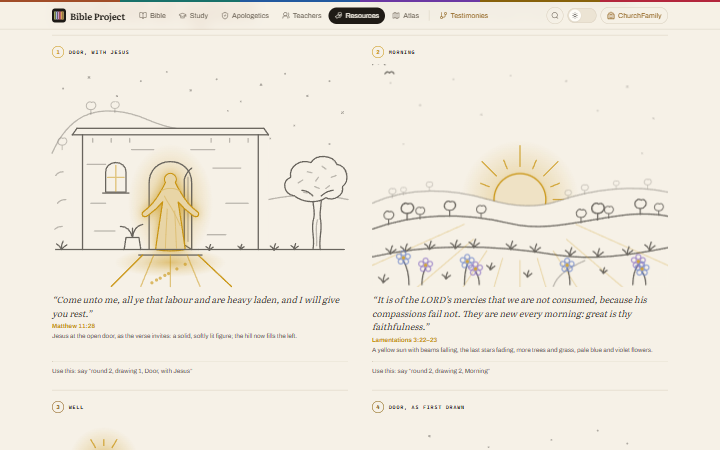
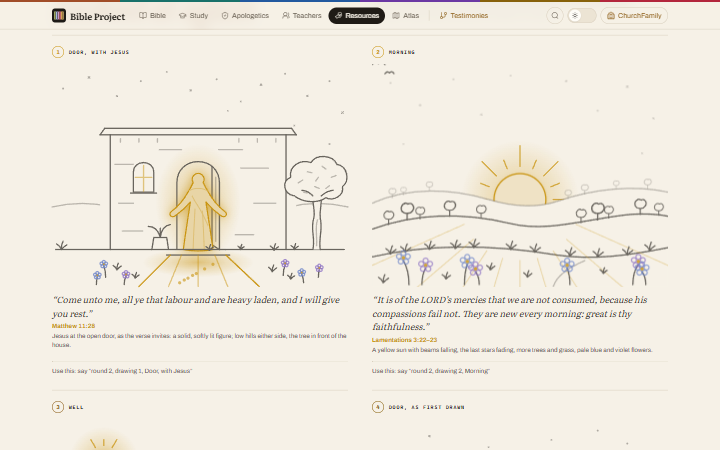
Design: round 2 Door with Jesus - house moved right behind the tree, low matching hills on both sides, grass and pale flowers in the front yard, the door's edge stops at the arch (owner)

diff --git a/design/help-for-life-drawings-2/scenes.js b/design/help-for-life-drawings-2/scenes.js
@@ -9,20 +9,18 @@
   const glow = (id, color, strength = .5) => `<radialGradient id="${id}"><stop offset="0" style="stop-color: ${color}; stop-opacity: ${strength}"/><stop offset=".5" style="stop-color: ${color}; stop-opacity: ${n(strength * .32)}"/><stop offset="1" style="stop-color: ${color}; stop-opacity: 0"/></radialGradient>`;
   // Jesus in the doorway as one solid silhouette: head, hair to the shoulders, open sleeves and hands, the robe to the step.
   const FIGURE = "M122.6 127.6C121 131 119.6 134 117.6 137C112 147 106 154 99 159C96.5 160.5 97 164.5 100.5 164.6C102 164.5 103 163.8 104 163C111 158 116 153 119.6 148.6C117 166 114 184 112 200C120 202 136 202 144 200C142 184 139 166 136.4 148.6C140 153 145 158 152 163C153 163.8 154 164.5 155.5 164.6C159 164.5 159.5 160.5 157 159C150 154 144 147 138.4 137C136.4 134 135 131 133.4 127.6A6.4 6.4 0 1 0 122.6 127.6Z";
-  const TREE = `<path d="M282 200C285 188 279 178 283 166C285 158 281 150 282 142"/><path d="M290 200C288 188 293 178 290 166C289 158 292 150 291 142"/><path class="f" d="M286 196C287 186 284 176 287 168"/>
+  const TREE = `<path class="pf" d="M282 200C285 188 279 178 283 166C285 158 281 150 282 142H291C292 150 289 158 290 166C293 178 288 188 290 200Z"/><path d="M282 200C285 188 279 178 283 166C285 158 281 150 282 142"/><path d="M290 200C288 188 293 178 290 166C289 158 292 150 291 142"/><path class="f" d="M286 196C287 186 284 176 287 168"/>
       <g class="crown"><path class="pf" d="M262 142C250 140 248 126 258 122C256 110 268 102 280 106C286 96 304 98 308 108C320 110 322 126 314 132C316 142 304 148 296 144C288 150 272 150 262 142Z"/><path d="M262 142C250 140 248 126 258 122C256 110 268 102 280 106C286 96 304 98 308 108C320 110 322 126 314 132C316 142 304 148 296 144C288 150 272 150 262 142Z"/><path class="f" d="M266 128l5-3M276 116l5 1M292 110l4 3M302 122l5-2M284 132l5 2M296 134l4-3M272 138l4 1M288 122l-3 4"/><path d="M282 142C278 138 274 136 270 136M291 142C296 138 300 136 304 136"/></g>`;
 
   window.ART = {
     // A · Come unto me (Matthew 11:28): Jesus as a solid, softly lit figure in the open doorway; the door's lines stop at
-    // his outline. The hill on the left now rises behind the house.
+    // his outline. Low hills either side; the tree stands in front of the house's right side.
     doorSolid: () => svg("Line drawing: Jesus standing as a softly lit figure in the open doorway of a small stone house at night, his arms open, the light falling across the step; a hill behind the house and a tree beside it", `
       <defs>${glow("door-glow-2", "var(--c)", .5)}</defs>
       ${stars([[12, 26], [40, 14, 1.2], [70, 34, .9], [96, 18], [124, 8, .8], [150, 28, 1.1], [178, 16], [204, 40, .8], [226, 22, 1.2], [252, 10], [276, 34, 1.1], [300, 18], [314, 52, .9], [262, 66, .8], [236, 80, .8], [300, 86, .9], [190, 50, .7]])}
-      <path class="pf" d="M0 200V96C8 78 18 64 34 56C54 46 82 50 104 60C116 65 126 68 134 69H0Z"/>
-      <path class="f" d="M0 96C8 78 18 64 34 56C54 46 82 50 104 60C116 65 126 68 134 69"/>
-      ${olive(42, 54, .75, "f")}${olive(68, 52, .65, "f")}${olive(11, 92, .7, "f")}
-      <path class="f" d="M4 120c2-3 5-4 8-4M6 150c2-3 6-4 9-4M3 178c2-2 5-3 8-3"/>
-      <path class="f" d="M234 146C262 140 292 140 320 146"/>
+      <path class="f" d="M64 154C44 149 22 149 0 154"/>
+      <path class="f" d="M256 154C276 149 298 149 320 154"/>
+      <g transform="translate(30 0)">
       <path class="pf" d="M22 69H234V200H22Z"/>
       <path d="M22 76H234"/><path d="M27 69H229"/><path d="M22 76L27 69M234 76L229 69"/>
       <path class="f" d="M44 80v4M64 80v4M84 80v4M172 80v4M192 80v4M212 80v4"/>
@@ -31,16 +29,18 @@
       <path d="M58 138V116C58 110 63 106 69 106C75 106 80 110 80 116V138Z"/><path class="ft" d="M69 109V137M60 122H78"/><path d="M55 139H83"/>
       <g class="glow-door"><ellipse cx="128" cy="150" rx="46" ry="64" fill="url(#door-glow-2)" stroke="none"/><ellipse cx="128" cy="214" rx="60" ry="16" fill="url(#door-glow-2)" stroke="none"/></g>
       <path d="M105 200V128C105 114 115 105 128 105C141 105 151 114 151 128V200"/>
-      <path d="M151 200L143 195V124C145 118 148 114 151 112"/><path class="f" d="M147 191V122"/>
+      <path d="M151 200L143 195V110.2"/><path class="f" d="M147 191V122"/>
       <path class="solid" d="${FIGURE}"/>
       <path class="fold" d="M121.4 142C126 151 133 160 139 175M124.6 156C123.8 172 123 186 122.6 199M132.6 158C133.4 172 134 186 134.6 199M117.6 137C121 134.6 124 134 128 134C132 134 135 134.6 138.4 137"/>
       <path d="M98 200H158"/><path d="M94 206H162"/>
       <g class="spill"><path class="t" d="M98 206L64 240"/><path class="t" d="M158 206L194 240"/><path class="ft" d="M110 206L96 240M128 206V240M146 206L160 240"/></g>
       ${range(7, (i) => `<circle class="mote" style="--i:${i}" cx="${108 + (i * 9) % 40}" cy="${236 - (i * 5) % 22}" r="1" fill="currentColor"/>`)}
-      <path d="M4 200H98M158 200H316"/>
       <path d="M78 200L80 187H94L96 200"/><path d="M87 187C85 179 80 175 74 175M87 187C88 179 92 174 98 173M87 187V177"/>
+      </g>
+      <path d="M4 200H128M188 200H316"/>
       ${TREE}
-      ${tuft(10, 200)}${tuft(240, 201, .8)}${tuft(262, 200, .7)}${tuft(170, 201, .7)}${tuft(204, 200, .6)}`),
+      ${tuft(10, 200)}${tuft(240, 201, .8)}${tuft(262, 200, .7)}${tuft(170, 201, .7)}${tuft(204, 200, .6)}${tuft(70, 222, .8)}${tuft(90, 231, .7)}${tuft(238, 224, .8)}${tuft(258, 232, .7)}
+      ${[[58, 230, 12, -2], [78, 238, 9, 2], [48, 238, 8, 1], [250, 228, 11, 2], [272, 236, 9, -2], [288, 230, 8, 1]].map(([x, y, h, lean], i) => `<g class="bloom" style="transform-origin:${x}px ${y}px;--i:${i}"><path d="M${x} ${y}C${x} ${y - h / 2} ${x + lean / 2} ${y - h * .8} ${x + lean} ${y - h}"/>${range(5, (k) => { const a = (k * 72 - 90) * Math.PI / 180; return `<circle class="${i % 2 ? "violet" : "blue"} petal" cx="${n(x + lean + Math.cos(a) * 2.6)}" cy="${n(y - h - 2 + Math.sin(a) * 2.6)}" r="1.5"/>`; })}<circle class="heart" cx="${x + lean}" cy="${y - h - 2}" r="1"/></g>`).join("")}`),
 
     // B · New every morning (Lamentations 3:22–23), refined: a yellow sun rising, its beams falling across the hills,
     // the last stars fading, olive trees on the hills, pale blue and violet flowers in thick grass.

diff --git a/design/help-for-life-drawings-2/page.js b/design/help-for-life-drawings-2/page.js
@@ -3,7 +3,7 @@
 (() => {
   const DOOR = "Come unto me, all ye that labour and are heavy laden, and I will give you rest.";
   const ITEMS = [
-    { key: "doorSolid", css: "door-solid", name: "Door, with Jesus", tone: "sun", verse: DOOR, ref: "Matthew 11:28", note: "Jesus at the open door, as the verse invites: a solid, softly lit figure; the hill now fills the left." },
+    { key: "doorSolid", css: "door-solid", name: "Door, with Jesus", tone: "sun", verse: DOOR, ref: "Matthew 11:28", note: "Jesus at the open door, as the verse invites: a solid, softly lit figure; low hills either side, the tree in front of the house." },
     { key: "morning", css: "morning", name: "Morning", tone: "sun", verse: "It is of the LORD’s mercies that we are not consumed, because his compassions fail not. They are new every morning: great is thy faithfulness.", ref: "Lamentations 3:22–23", note: "A yellow sun with beams falling, the last stars fading, more trees and grass, pale blue and violet flowers." },
     { key: "well", css: "well", name: "Well", tone: "accent", verse: "But whosoever drinketh of the water that I shall give him shall never thirst …", ref: "John 4:14", note: "The sun glowing with its rays turning slowly; olive trees on the hills." },
     { key: "doorOriginal", css: "door-original", name: "Door, as first drawn", tone: "epistles", verse: DOOR, ref: "Matthew 11:28", note: "The first version, before Jesus was added, shown unchanged." },

diff --git a/design/help-for-life-drawings-2/round2.css b/design/help-for-life-drawings-2/round2.css
@@ -58,6 +58,10 @@
 
 :root[data-theme="dark"] .draw-door-solid .solid { fill: color-mix(in srgb, var(--c) 58%, var(--page)); }
 
+.draw-door-solid .bloom { animation: sway 6s ease-in-out infinite alternate; animation-delay: calc(var(--i) * -1.7s); }
+.draw-door-solid .blue { stroke: var(--blue); } .draw-door-solid .violet { stroke: var(--violet); }
+.draw-door-solid .petal { opacity: .8; } .draw-door-solid .heart { fill: var(--sun); stroke: none; opacity: .8; }
+
 /* 2 · Morning: the sun rises and settles in its glow, rays turning; its beams brighten over the hills as the stars fade;
    birds cross; the flowers nod. */
 .draw-morning .art { overflow: hidden; }
